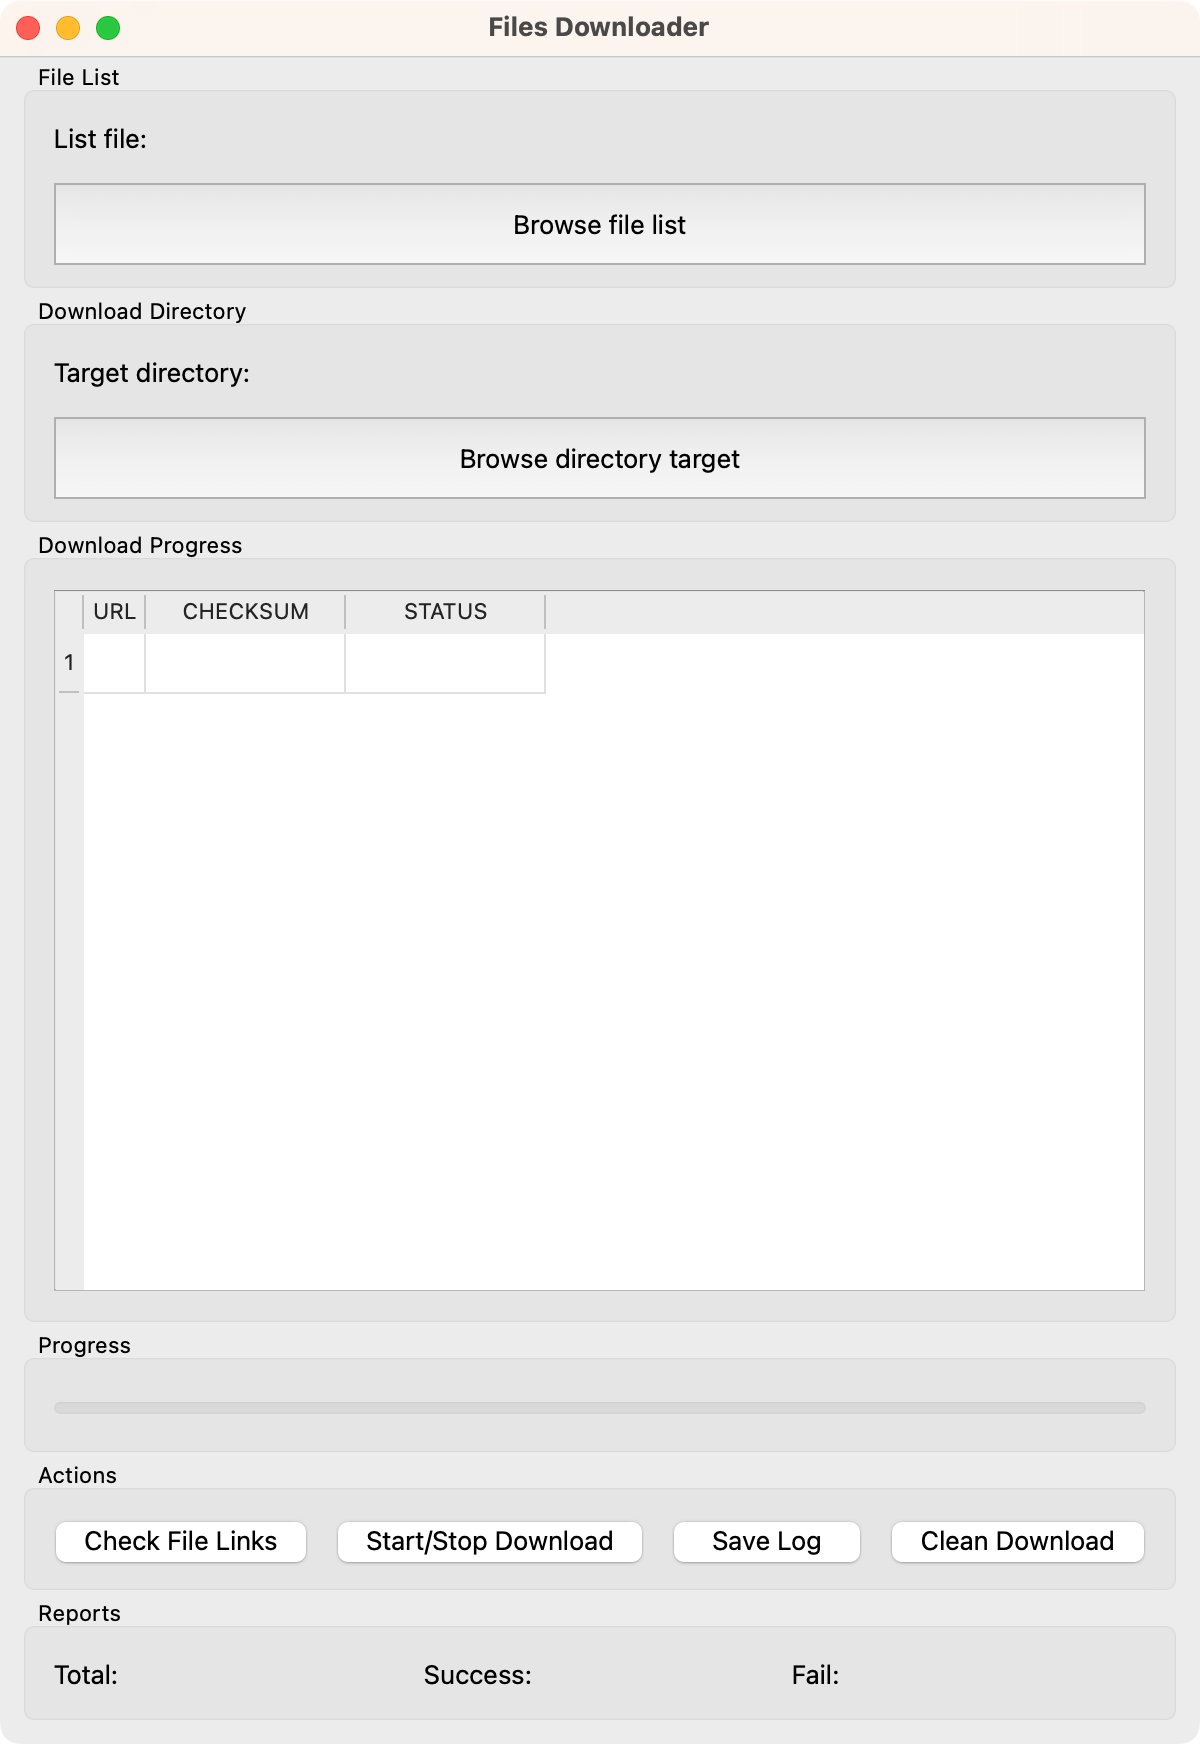
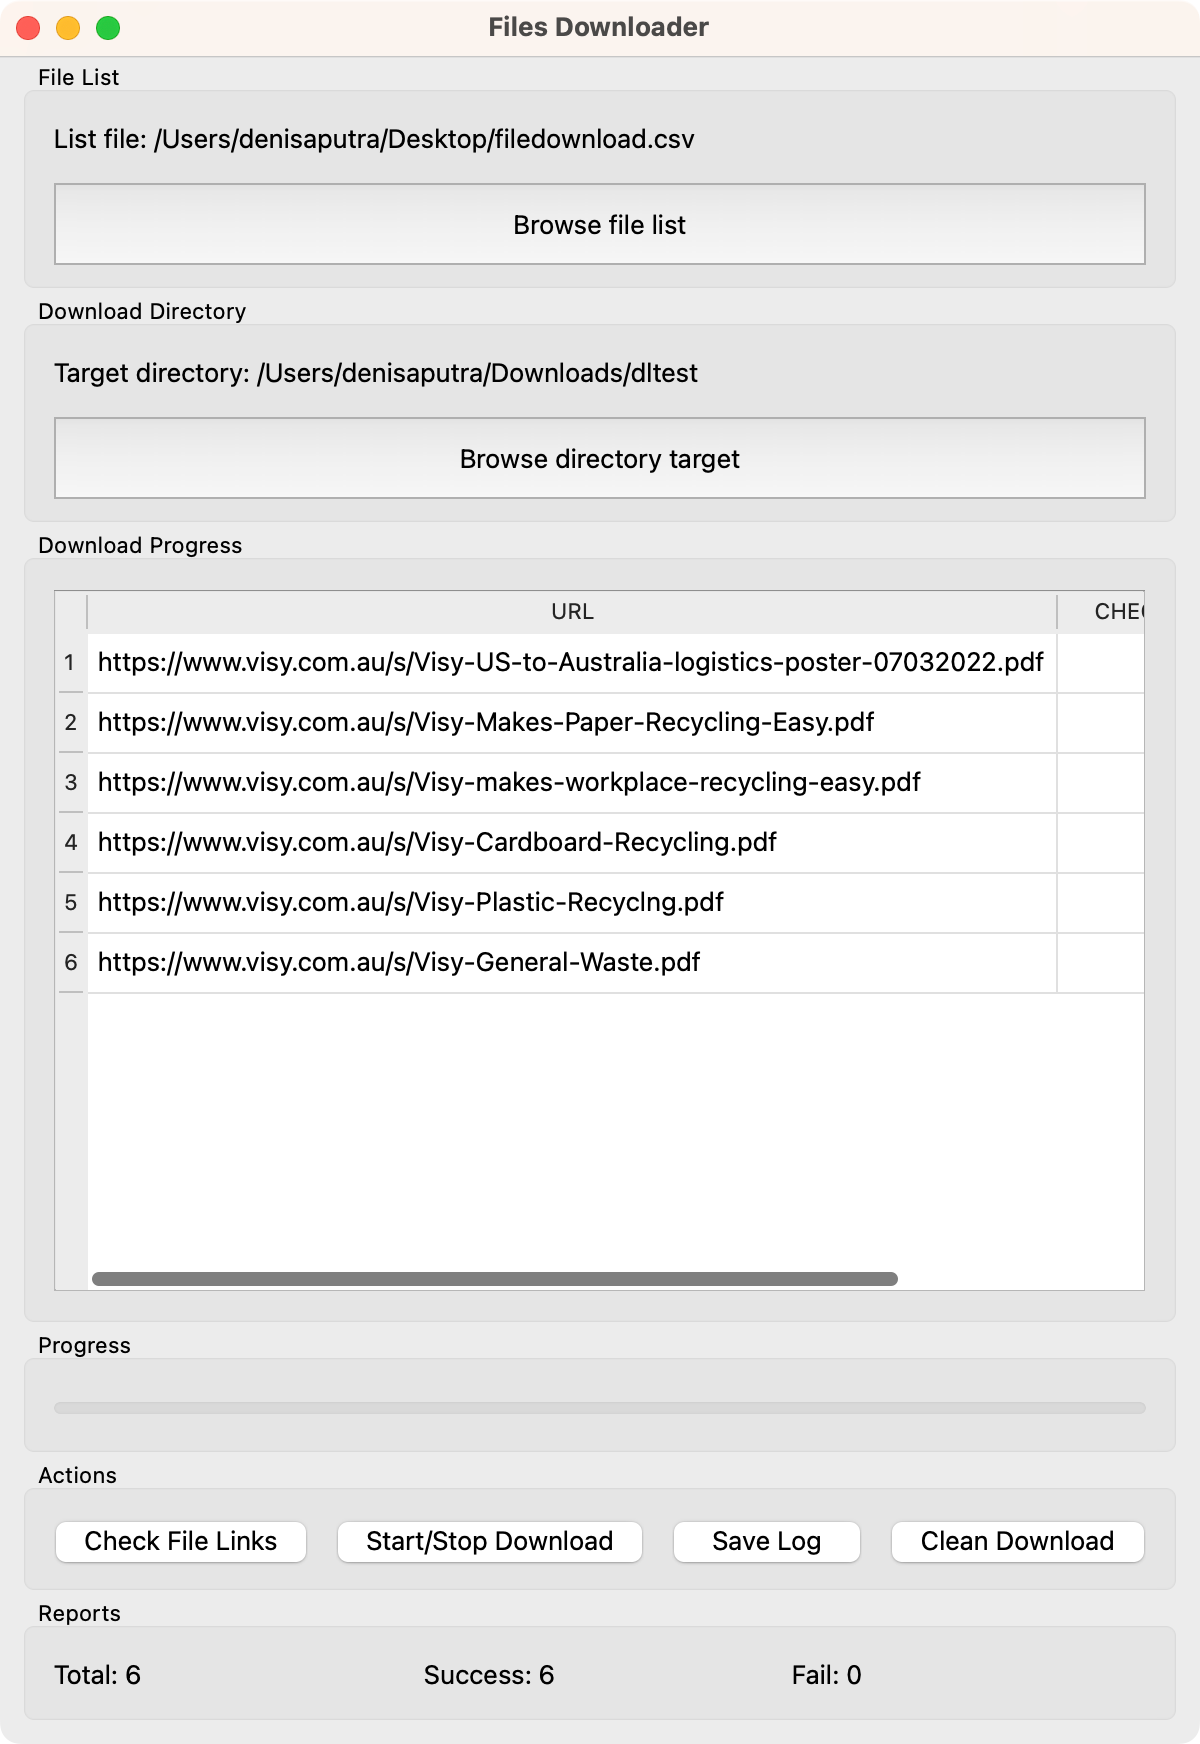
add download, clean file and concurrent download

diff --git a/FilesDownloader/FilesDownloader.py b/FilesDownloader/FilesDownloader.py
@@ -1,7 +1,12 @@
 import sys
+import os
+import csv
+import concurrent.futures
+import requests
 from PyQt6.QtWidgets import (QApplication, QMainWindow, QWidget, QGroupBox, QVBoxLayout, QHBoxLayout, QLabel,
-                             QPushButton, QTableWidget, QHeaderView, QProgressBar)
+                             QPushButton, QTableWidget, QHeaderView, QProgressBar, QFileDialog, QTableWidgetItem)
 
+from PyQt6.QtCore import Qt
 
 class FilesDownloader(QMainWindow):
 
@@ -17,12 +22,23 @@ class FilesDownloader(QMainWindow):
         # Browse Buttons
         self.file_list_browse = QPushButton('Browse file list')
         self.file_list_browse.setFixedHeight(50)
+        self.file_list_browse.clicked.connect(self.open_file_list)
         self.directory_browse = QPushButton('Browse directory target')
         self.directory_browse.setFixedHeight(50)
+        self.directory_browse.clicked.connect(self.open_target_dir)
 
         # Hold file path and folder path
         self.file_list = ''
         self.target_dir = ''
+
+        # Flag
+        self.download_start = False
+
+        # Data
+        self.data = []
+        self.total = 0
+        self.success = 0
+        self.fail = 0
 
         # Table
         self.download_table = QTableWidget(1, 3)
@@ -36,21 +52,27 @@ class FilesDownloader(QMainWindow):
 
         # Actions button
         self.check_link_btn = QPushButton('Check File Links')
+        self.check_link_btn.setDisabled(True)
+        self.check_link_btn.clicked.connect(self.check_file)
         self.start_download_btn = QPushButton('Start/Stop Download')
+        self.start_download_btn.setDisabled(True)
+        self.start_download_btn.clicked.connect(self.start_download)
         self.save_log_btn = QPushButton('Save Log')
+        self.save_log_btn.setDisabled(True)
         self.clean_download_btn = QPushButton('Clean Download')
+        self.clean_download_btn.setDisabled(True)
+        self.clean_download_btn.clicked.connect(self.clean_download)
 
         # Report Label
         self.download_total = QLabel('Total:')
+        self.download_total.setText(f'Total: {self.total}')
         self.download_success = QLabel('Success:')
+        self.download_success.setText(f'Success: {self.success}')
         self.download_fail = QLabel('Fail:')
-
-        # Flag
-        self.download_start = False
+        self.download_fail.setText(f'Fail: {self.fail}')
 
         # Load ui
         self.init_ui()
-        print('aaa')
 
     def init_ui(self):
         downloader_layout = QVBoxLayout()
@@ -113,6 +135,95 @@ class FilesDownloader(QMainWindow):
         central_widget.setLayout(downloader_layout)
         self.setCentralWidget(central_widget)
         self.show()
+
+    def open_file_list(self):
+        paths, _ = QFileDialog.getOpenFileNames(self, 'Select file', '', 'CSV File (*.csv)')
+        if paths:
+            self.file_list = paths[0]
+            self.file_list_path.setText(f'List file: {self.file_list}')
+            self.load_file_list()
+
+    def open_target_dir(self, file):
+        dir = QFileDialog.getExistingDirectory(self, 'Select target directory', options=QFileDialog.Option.ShowDirsOnly)
+        if dir:
+            self.target_dir = dir
+            self.target_dir_path.setText(f'Target directory: {self.target_dir}')
+            if os.access(dir, os.W_OK):
+                self.check_link_btn.setDisabled(False)
+                self.start_download_btn.setDisabled(False)
+                self.save_log_btn.setDisabled(False)
+                self.clean_download_btn.setDisabled(False)
+
+    def load_file_list(self):
+        if self.file_list:
+            file_ext = os.path.splitext(self.file_list)[1]
+            if file_ext == '.csv':
+                with open(self.file_list, 'r') as csv_file:
+                    reader = csv.reader(csv_file)
+                    rows = list(reader)
+                    self.data = rows[1:]
+                    self.total = len(self.data)
+                    self.download_table.setRowCount(self.total)
+                    for index, row in enumerate(self.data):
+                        self.download_table.setItem(index, 0, QTableWidgetItem(row[0]))
+                        self.download_table.setItem(index, 1, QTableWidgetItem(row[1]))
+                        self.download_table.setItem(index, 2, QTableWidgetItem(row[2]))
+                self.download_total.setText(f'Total: {self.total}')
+
+            if self.total > 0 and self.target_dir != '':
+                self.check_link_btn.setDisabled(False)
+                self.start_download_btn.setDisabled(False)
+                self.save_log_btn.setDisabled(False)
+                self.clean_download_btn.setDisabled(False)
+
+    def start_download(self):
+        if self.total > 0:
+            file_urls = []
+            self.success = 0
+            self.fail = 0
+            for row in self.data:
+                save_path = row[0] + '/' + os.path.basename(row[0])
+                file_urls.append(save_path)
+
+            with concurrent.futures.ThreadPoolExecutor(max_workers=1) as executor:
+                futures = [executor.submit(self.download_file, url, f"{self.target_dir}/{os.path.basename(url)}") for url in file_urls]
+                concurrent.futures.wait(futures)
+
+    def download_file(self, url, save_path):
+        response = requests.get(url, stream=True)
+        if response.status_code == 200:
+            with open(save_path, 'wb') as file:
+                file.write(response.content)
+                self.success += 1
+        else:
+            self.fail += 1
+
+        self.download_success.setText(f'Success: {self.success}')
+        self.download_fail.setText(f'Fail: {self.fail}')
+
+    def check_file(self):
+        if self.data:
+            for row in self.data:
+                url = row[0]
+                response = requests.get(url, stream=True)
+                if response.status_code == 200:
+                    self.success += 1
+                else:
+                    self.fail += 1
+
+        self.download_success.setText(f'Success: {self.success}')
+        self.download_fail.setText(f'Fail: {self.fail}')
+
+    def clean_download(self):
+        for filename in os.listdir(self.target_dir):
+            file_path = os.path.join(self.target_dir, filename)
+            try:
+                if os.path.isfile(file_path):
+                    os.remove(file_path)
+                    print(f'Removed file: {file_path}')
+            except Exception as e:
+                print(f'Failed to remove {file_path}: {e}')
+
 
 
 if __name__ == '__main__':

diff --git a/FilesDownloader/README.md b/FilesDownloader/README.md
@@ -4,7 +4,7 @@ Python app based on PyQT6. This app will download files based on the files list 
 # Features
 * Concurrent download (Upcoming feature)
 * Download any files over http (Upcoming feature - password protected download)
-* Select file list download in csv or json format
+* Select file list download in csv format
 * Reports (success or failed)
 * Select directory target for download
 * Progress bar (Upcoming feature - download progress / overall progress)
